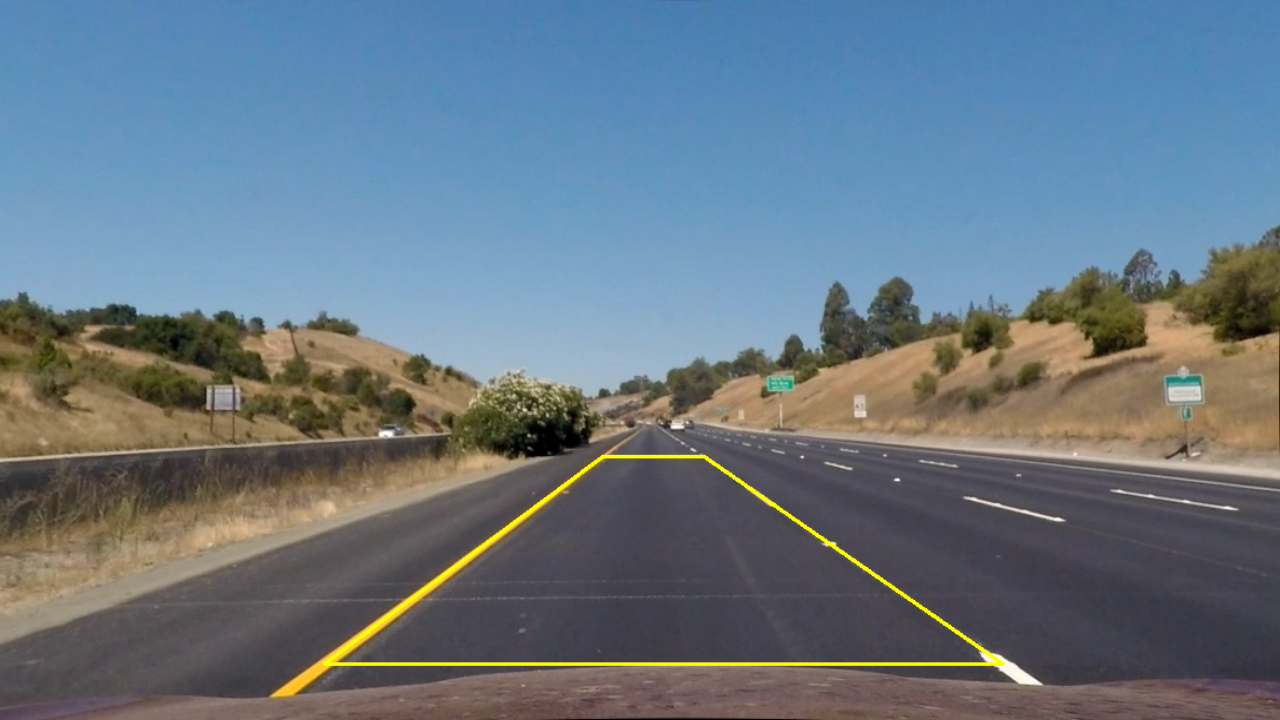
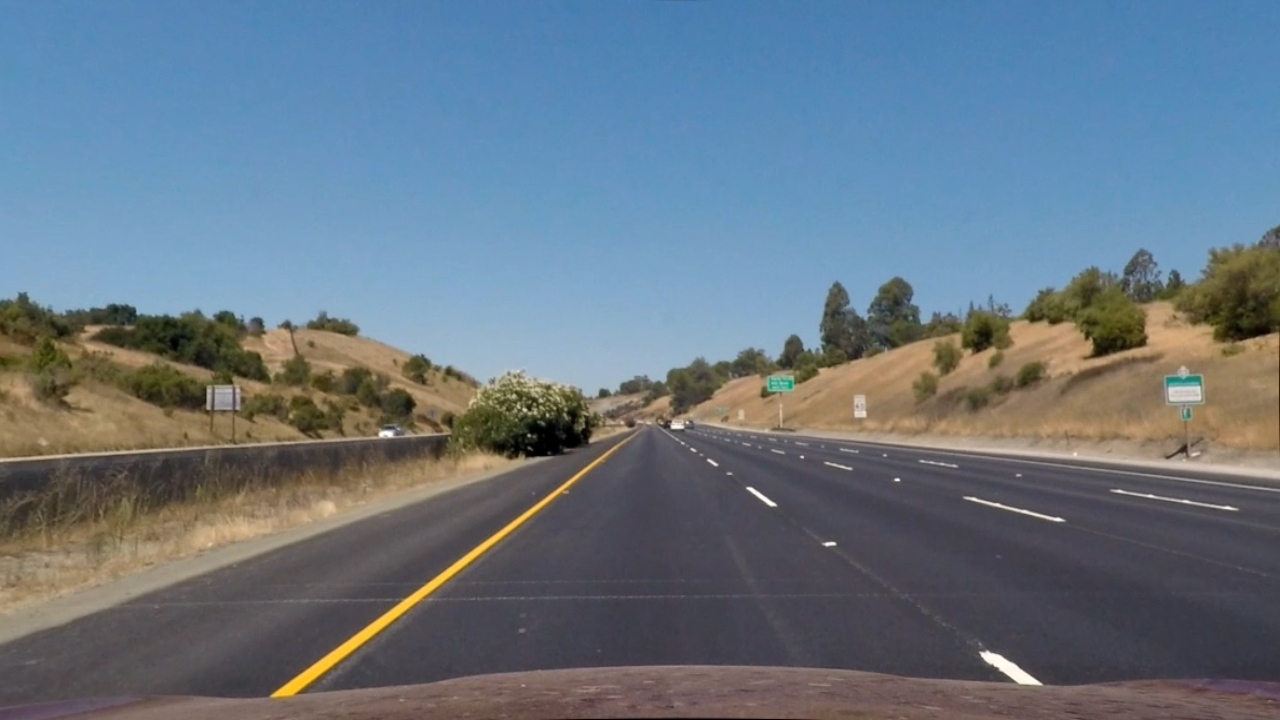
Add more output images

diff --git a/Assignment4.TonyKnight.md b/Assignment4.TonyKnight.md
@@ -44,7 +44,7 @@ Figure 2 shows a chessboard image as taken, with intrinsic camera distortion rem
 
 <u><i>Figure 3 Raw image from dashboard camera with straight road line markers</u></i>
 
-I applied the same process to correct the images from the dashboard camera like the one shown above in Figure 3.  I wrote a wrapper function `camera_undistort()` in the [AdvancedLaneLines.ipynb Jupyter notebook](https://github.com/teeekay/CarND-Advanced-Lane-Lines/blob/master/AdvancedLaneLines.ipynb) that removed the intrinsic distortion we measured on the chessboards from the dashcam images (assuming the same camera was used in both cases.)  The result is shown in Figure4:  I also placed a polyline on the image which represented a section of a lane with straight lines.
+I applied the same process to correct the images from the dashboard camera like the one shown above in Figure 3.  I wrote a wrapper function `camera_undistort()` in the [AdvancedLaneLines.ipynb Jupyter notebook](https://github.com/teeekay/CarND-Advanced-Lane-Lines/blob/master/AdvancedLaneLines.ipynb) that removed the intrinsic distortion we measured on the chessboards from the dashcam images (assuming the same camera was used in both cases.)  The result is shown in Figure4:
 
 ---
 
@@ -54,7 +54,7 @@ I applied the same process to correct the images from the dashboard camera like 
 
 ---
 
-I then wrote a wrapper function `undistort_crop()` which cropped the image for display purposes so that blank areas were not included in the final display image.  I did not apply this crop during the undistort stage, because I did not want to remove any information that could be used in other transformations (e.g. birdseye transformation).
+I then wrote a wrapper function `undistort_crop()` which used `cv2.warpPerspective()` to crop the image  for final display purposes so that blank areas were not included.  I did not apply this crop during the undistort stage, because I did not want to remove any information that might be useful in other transformations (e.g. birdseye transformation).
 
 ---
 
@@ -64,45 +64,48 @@ I then wrote a wrapper function `undistort_crop()` which cropped the image for d
 
 ---
 
+Using the image in figure 4 I found 4 co-ordinates  which represented a rectangular section of straight roadway.  These co-ordinates are shown with a polyline in figure 6.  I then wrote two wrapper functions `birdseye_transform()` and `birdseye_untransform()` to translate the image into a "birdseye" view from above and back again.  I decided to plot the birdseye image on a 720 x 1280 image to enable better visualization/discrimination of the roadway from above than in the 1280 x 720 format.  I carefully selected co-ordinates to transpose the identified image co-ordinates to in order that the straight road would be centered, would have a lane width of 200 pixels, and would only include minimal .  The source and destination co-ordinates are for the image transform are presented in Table 1 below and are outlined with a polyline in figures 6 (a) and (b)
 
-
-
-
-#### 2. Describe how (and identify where in your code) you used color transforms, gradients or other methods to create a thresholded binary image.  Provide an example of a binary image result.
-
-I used a combination of color and gradient thresholds to generate a binary image (thresholding steps at lines # through # in `another_file.py`).  Here's an example of my output for this step.  (note: this is not actually from one of the test images)
-
-![alt text][image3]
-
-#### 3. Describe how (and identify where in your code) you performed a perspective transform and provide an example of a transformed image.
-
-The code for my perspective transform includes a function called `warper()`, which appears in lines 1 through 8 in the file `example.py` (output_images/examples/example.py) (or, for example, in the 3rd code cell of the IPython notebook).  The `warper()` function takes as inputs an image (`img`), as well as source (`src`) and destination (`dst`) points.  I chose the hardcode the source and destination points in the following manner:
-
-```python
-src = np.float32(
-    [[(img_size[0] / 2) - 55, img_size[1] / 2 + 100],
-    [((img_size[0] / 6) - 10), img_size[1]],
-    [(img_size[0] * 5 / 6) + 60, img_size[1]],
-    [(img_size[0] / 2 + 55), img_size[1] / 2 + 100]])
-dst = np.float32(
-    [[(img_size[0] / 4), 0],
-    [(img_size[0] / 4), img_size[1]],
-    [(img_size[0] * 3 / 4), img_size[1]],
-    [(img_size[0] * 3 / 4), 0]])
-```
-
-This resulted in the following source and destination points:
+---
 
 | Source        | Destination   | 
 |:-------------:|:-------------:| 
-| 585, 460      | 320, 0        | 
-| 203, 720      | 320, 720      |
-| 1127, 720     | 960, 720      |
-| 695, 460      | 960, 0        |
+| [617, 450]      | [260, 640]        | 
+| [711, 450]      | [460, 640]      |
+| [988, 626]     | [460, 1260]      |
+| [359, 626]      | [260, 1260]        |
 
-I verified that my perspective transform was working as expected by drawing the `src` and `dst` points onto a test image and its warped counterpart to verify that the lines appear parallel in the warped image.
+<u><i>Table 1 Source and Destination co-ordinates for the Birdseye image transform</u></i>
 
-![alt text][image4]
+---
+
+|<img src="https://github.com/teeekay/CarND-Advanced-Lane-Lines/blob/master/output_images/undistorted_andpoly_straight_lines1.png?raw=true"  width=300>|<img src="https://github.com/teeekay/CarND-Advanced-Lane-Lines/blob/master/output_images/birdseye_straight_lines1.png?raw=true"  width=300>|
+|--|--|
+| (a) | (b) |
+
+<u><i>Figure 6 Birdseye Image Transformation - (a) Dashcam image (undistorted) with yellow polyline outlining source transform points, (b) Transformed birdseye view of road with new co-ordinates shown by yellow polyline</u></i>
+
+---
+
+
+#### 2. Image Thresholding
+
+I used a combination of color and gradient thresholds to generate a binary image (thresholding steps at lines # through # in `another_file.py`).  Here's an example of my output for this step.
+
+---
+
+|<img src="https://github.com/teeekay/CarND-Advanced-Lane-Lines/blob/master/output_images/sobel_mag_straight_lines1.png?raw=true"  width=300>|<img src="https://github.com/teeekay/CarND-Advanced-Lane-Lines/blob/master/output_images/combo_thresh_straight_lines1.png?raw=true"  width=300>|
+|--|--|
+| (a) | (b) |
+
+<u><i>Figure 7 Image thresholding applied to identify lane lines.  In (a) the image was processed using a custom sobel operation and thresholded, producing very good results.  in (b) the results of thresholding multiple color channels and sobel results were used to generate a single binary image with the lane lines extended almost the full length of the image</u></i>
+
+---
+
+sobel_mag_straight_lines1  
+
+
+
 
 #### 4. Describe how (and identify where in your code) you identified lane-line pixels and fit their positions with a polynomial?
 
